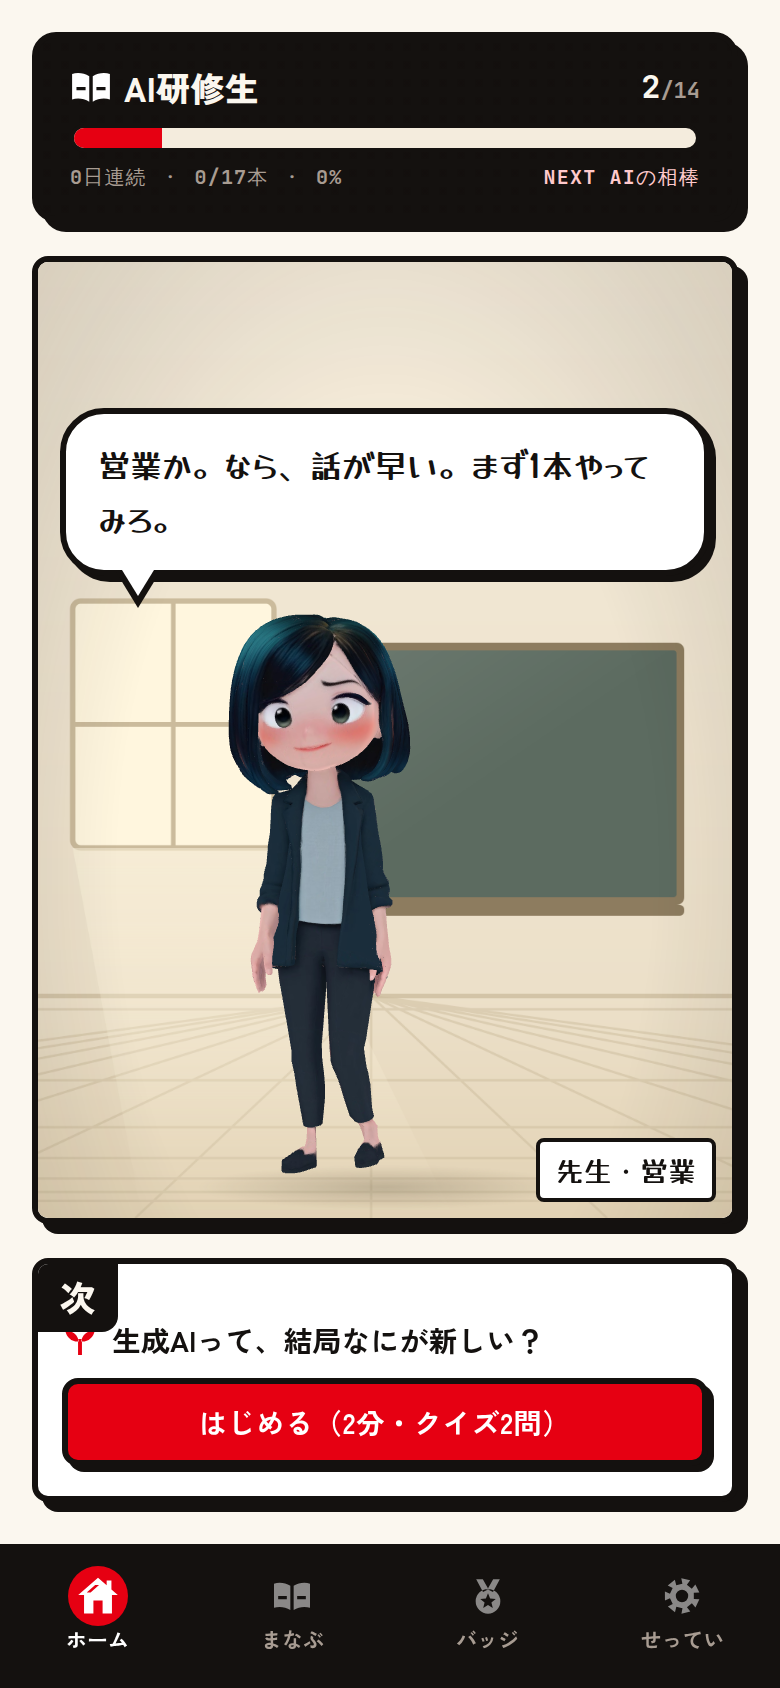
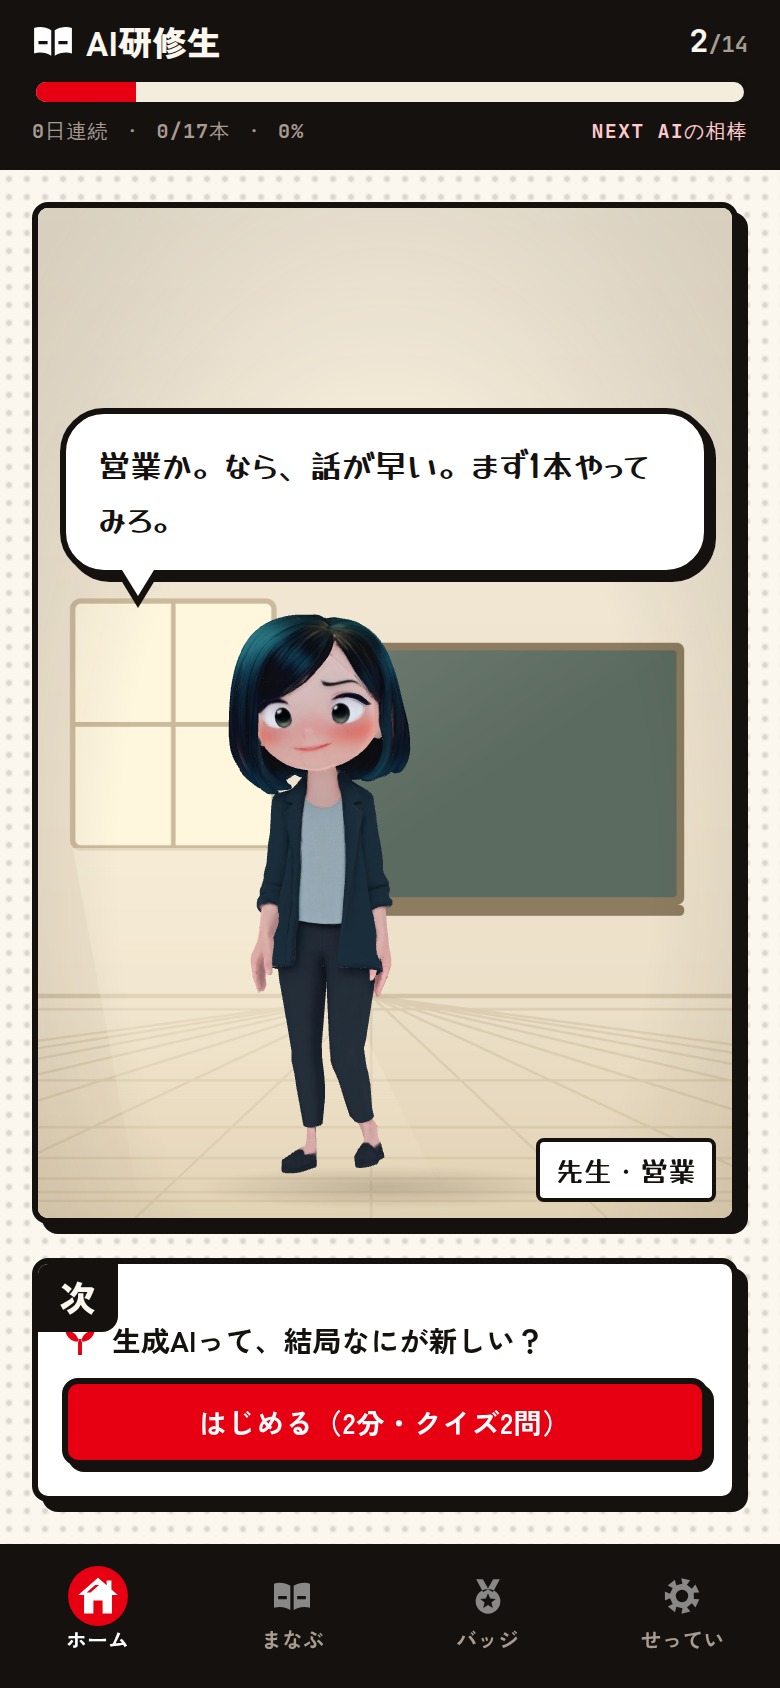
style(academy): ホームのヘッダーを端まで届く黒ベタにし、網点を紙に戻す
・称号の帯を、枠＋ベタ影のカードから**画面の端まで届く黒ベタ**にした。
  ステータスバーの裏まで伸ばしている（Screen に header スロットを追加）。
  下のタブバーと同じ黒で挟むかたちになり、あいだが「紙」として立つ

・その紙に網点を戻した。前に散らかって見えた原因は網点そのものではなく、
  黒いカードが網点の上に浮いていて、帯・コマの絵・網点の3つが同じ強さで
  目に入っていたこと。帯が地になったので、網点は紙の質感として読める。
  濃さは Screen の toneOpacity で下げられる

帯があるときは SafeAreaView に上を任せない（任せると帯の上に紙の余白が
出てしまう）。帯自身が insets.top を飲み込む。

Claude-Session: https://claude.ai/code/session_01L4gqDx6TDHmRb7BpU2Qvjq

Changed region(s): [[0.0, 0.0, 1.0, 0.1848]]

diff --git a/ComixaiAcademy/src/app/(tabs)/index.tsx b/ComixaiAcademy/src/app/(tabs)/index.tsx
@@ -15,14 +15,14 @@ import { Pressable, Text, View } from 'react-native';
 import { Avatar3D, type AvatarHandle } from '@/avatar/Avatar3D';
 import type { AvatarMotion } from '@/avatar/motions';
 import { Icon, type IconName } from '@/components/icons';
-import { Bubble, Button, Panel, Pop, Progress, Row, Screen, Tone } from '@/components/ui';
+import { Bubble, Button, Panel, Progress, Row, Screen } from '@/components/ui';
 import { nextTitle } from '@/data/badges';
 import { getAvatar } from '@/data/avatars';
 import { COURSES } from '@/data/courses';
 import { getRole } from '@/data/roles';
 import { STAGE, STAGE_RATIO, STAGE_WALL } from '@/data/stage';
 import { useProgress, useStats } from '@/store/progress';
-import { BW, C, F, FONT, R, S, T } from '@/theme';
+import { C, F, FONT, S, T } from '@/theme';
 
 /** アバターをつついたときに出る、どうでもいい雑談 */
 const SMALL_TALK: { say: string; motion: AvatarMotion; emote?: IconName }[] = [
@@ -86,48 +86,39 @@ export default function HomeScreen() {
 
   const upcoming = nextTitle(stats.badgeCount);
 
-  return (
-    <Screen scroll={false} style={{ gap: S.md }}>
-      {/* ———— 称号の帯（黒ベタ＋網点） ———— */}
-      <Pop radius={R.md}>
-        <Tone
-          tone="dots"
-          style={{
-            backgroundColor: C.ink900,
-            borderWidth: BW.bold,
-            borderColor: C.ink900,
-            borderRadius: R.md,
-            paddingHorizontal: S.lg,
-            paddingVertical: S.md,
-            gap: 6,
-            overflow: 'hidden',
-          }}>
-          <Row style={{ justifyContent: 'space-between', alignItems: 'center' }}>
-            <Row gap={6} style={{ flex: 1 }}>
-              <Icon name={stats.title.icon} size={21} color={C.paper0} />
-              <Text style={[F.h2, { color: C.paper50 }]} numberOfLines={1}>
-                {stats.title.name}
-              </Text>
-            </Row>
-            <Text style={{ fontFamily: FONT.mono, fontSize: 16, color: C.paper50 }}>
-              {stats.badgeCount}
-              <Text style={{ fontFamily: FONT.mono, fontSize: 11, color: C.ink300 }}>
-                /{stats.badgeTotal}
-              </Text>
-            </Text>
-          </Row>
-          <Progress value={stats.badgeCount} total={stats.badgeTotal} />
-          <Row style={{ justifyContent: 'space-between' }}>
-            <Text style={{ fontFamily: FONT.mono, fontSize: 10, color: C.ink300, letterSpacing: 0.6 }}>
-              {stats.streak}日連続 ・ {stats.doneCount}/{stats.total}本 ・ {stats.percent}%
-            </Text>
-            <Text style={{ fontFamily: FONT.mono, fontSize: 10, color: C.red100, letterSpacing: 0.6 }}>
-              {upcoming ? `NEXT ${upcoming.name}` : 'MAX'}
-            </Text>
-          </Row>
-        </Tone>
-      </Pop>
+  /* ———— 称号の帯 ————
+     画面の端まで届く黒ベタ。枠もベタ影も付けない。
+     下のタブバーと同じ黒で挟むことで、あいだが「紙」として立つ */
+  const header = (
+    <View style={{ paddingHorizontal: S.lg, paddingTop: S.sm, paddingBottom: S.md, gap: 6 }}>
+      <Row style={{ justifyContent: 'space-between', alignItems: 'center' }}>
+        <Row gap={6} style={{ flex: 1 }}>
+          <Icon name={stats.title.icon} size={21} color={C.paper0} />
+          <Text style={[F.h2, { color: C.paper50 }]} numberOfLines={1}>
+            {stats.title.name}
+          </Text>
+        </Row>
+        <Text style={{ fontFamily: FONT.mono, fontSize: 16, color: C.paper50 }}>
+          {stats.badgeCount}
+          <Text style={{ fontFamily: FONT.mono, fontSize: 11, color: C.ink300 }}>
+            /{stats.badgeTotal}
+          </Text>
+        </Text>
+      </Row>
+      <Progress value={stats.badgeCount} total={stats.badgeTotal} />
+      <Row style={{ justifyContent: 'space-between' }}>
+        <Text style={{ fontFamily: FONT.mono, fontSize: 10, color: C.ink300, letterSpacing: 0.6 }}>
+          {stats.streak}日連続 ・ {stats.doneCount}/{stats.total}本 ・ {stats.percent}%
+        </Text>
+        <Text style={{ fontFamily: FONT.mono, fontSize: 10, color: C.red100, letterSpacing: 0.6 }}>
+          {upcoming ? `NEXT ${upcoming.name}` : 'MAX'}
+        </Text>
+      </Row>
+    </View>
+  );
 
+  return (
+    <Screen scroll={false} header={header} tone="dots" style={{ gap: S.md }}>
       {/* ———— アバターのコマ（残りの高さを全部使う） ————
            名前と職種はコマのキャプション（右下に絶対配置）に逃がして、
            アバターに使える高さを削らないようにしている。

diff --git a/ComixaiAcademy/src/components/ui.tsx b/ComixaiAcademy/src/components/ui.tsx
@@ -24,7 +24,7 @@ import {
   type TextStyle,
   type ViewStyle,
 } from 'react-native';
-import { SafeAreaView, type Edge } from 'react-native-safe-area-context';
+import { SafeAreaView, useSafeAreaInsets, type Edge } from 'react-native-safe-area-context';
 
 import { BW, C, F, FONT, POP, R, S, T } from '@/theme';
 
@@ -107,36 +107,59 @@ export function Pop({
 
 /* ———————————————— 画面 ———————————————— */
 
-/* 画面の地は無地の紙のまま。網点はコマ（Panel tone）の中だけで使う。
-   画面全体に敷くと、コマの絵も網点も同じ強さで目に入って散らかる */
 export function Screen({
   children,
+  /** 画面上部に端まで敷く黒ベタの帯。ステータスバーの裏まで伸ばす */
+  header,
   edges = ['top'],
   scroll = true,
+  /** 紙（本文の地）に敷くスクリーントーン */
+  tone = 'none',
+  /** 網点の濃さ。薄くしたいときだけ 0.5 くらいを渡す */
+  toneOpacity = 1,
   style,
 }: {
   children: React.ReactNode;
+  header?: React.ReactNode;
   edges?: Edge[];
   scroll?: boolean;
+  tone?: ToneKind;
+  toneOpacity?: number;
   style?: StyleProp<ViewStyle>;
 }) {
+  const insets = useSafeAreaInsets();
   /* タブバーは内容に覆いかぶさらないので、下は素の余白でよい。
      スクロールする画面だけ、最後の要素が窮屈に見えないよう少し多めに取る */
   const bottomPad = scroll ? S.xxl : S.lg;
 
+  /* 帯があるときは、帯自身がステータスバーぶんを飲み込むので
+     SafeAreaView に上を任せない（任せると帯の上に紙の余白が出る） */
+  const safeEdges = header ? edges.filter((e) => e !== 'top') : edges;
+
+  const body = scroll ? (
+    <ScrollView
+      contentContainerStyle={[styles.screenPad, { paddingBottom: bottomPad }, style]}
+      showsVerticalScrollIndicator={false}>
+      {children}
+    </ScrollView>
+  ) : (
+    <View style={[{ flex: 1 }, styles.screenPad, { paddingBottom: bottomPad }, style]}>
+      {children}
+    </View>
+  );
+
   return (
-    <SafeAreaView style={styles.screen} edges={edges}>
-      {scroll ? (
-        <ScrollView
-          contentContainerStyle={[styles.screenPad, { paddingBottom: bottomPad }, style]}
-          showsVerticalScrollIndicator={false}>
-          {children}
-        </ScrollView>
-      ) : (
-        <View style={[{ flex: 1 }, styles.screenPad, { paddingBottom: bottomPad }, style]}>
-          {children}
-        </View>
-      )}
+    <SafeAreaView style={styles.screen} edges={safeEdges}>
+      {header ? (
+        <View style={{ backgroundColor: C.ink900, paddingTop: insets.top }}>{header}</View>
+      ) : null}
+      {/* 紙。網点はここだけに敷く（黒ベタの帯とタブバーには掛からない） */}
+      <View style={{ flex: 1 }}>
+        {tone !== 'none' && (
+          <Tone tone={tone} style={[StyleSheet.absoluteFill, { opacity: toneOpacity }]} />
+        )}
+        {body}
+      </View>
     </SafeAreaView>
   );
 }
